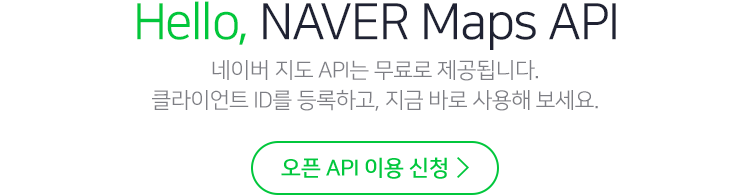
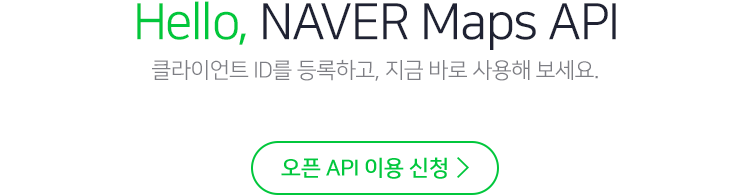
fix index.html

Changed region(s): [[0.184, 0.3061, 0.7973, 0.4286], [0.184, 0.4592, 0.7973, 0.5816]]

diff --git a/index.html b/index.html
@@ -198,13 +198,13 @@
             <div class="bg_layer"></div>
             <div class="inner_section6">
                 <h3 class="blind">Hello, NAVER Maps API</h3>
-                <p class="blind">네이버 지도 API는 무료로 제공됩니다. 클라이언트 ID를 등록하고, 지금 바로 사용해 보세요.</p>
-                <a href="https://developers.naver.com/register" class="btn_id" target="_blank"><span class="blind">클라이언트 ID 발급받기</span></a>
+                <p class="blind">클라이언트 ID를 등록하고, 지금 바로 사용해 보세요.</p>
+                <a href="https://navermaps.github.io/maps.js.en/docs/tutorial-1-Getting-Client-ID.html" class="btn_id" target="_blank"><span class="blind">클라이언트 ID 발급받기</span></a>
                 <div class="map_api_info">
                     <ul>
                     <li><a href="./docs" target="_blank" class="go reference"><span class="blind">기술문서 - 튜토리얼,API레퍼런스 등 유용한 기술문서를 읽어 보세요.</span></a></li>
-                    <li><a href="https://github.com/navermaps/maps.js" target="_blank" class="go github"><span class="blind">GitHub - 예제 코드를 직접 사용해 보세요</span></a></li>
-                    <li><a href="https://github.com/navermaps/maps.js/issues" target="_blank" class="go issue"><span class="blind">Issue - 버그는 신고해 주시고, 궁금한 것은 바로 문의해 주세요</span></a></li>
+                    <li><a href="https://github.com/navermaps/maps.js.en" target="_blank" class="go github"><span class="blind">GitHub - 예제 코드를 직접 사용해 보세요</span></a></li>
+                    <li><a href="https://www.ncloud.com/support/question/service" target="_blank" class="go issue"><span class="blind">Issue - 버그는 신고해 주시고, 궁금한 것은 바로 문의해 주세요</span></a></li>
                     </ul>
                 </div>
             </div>
